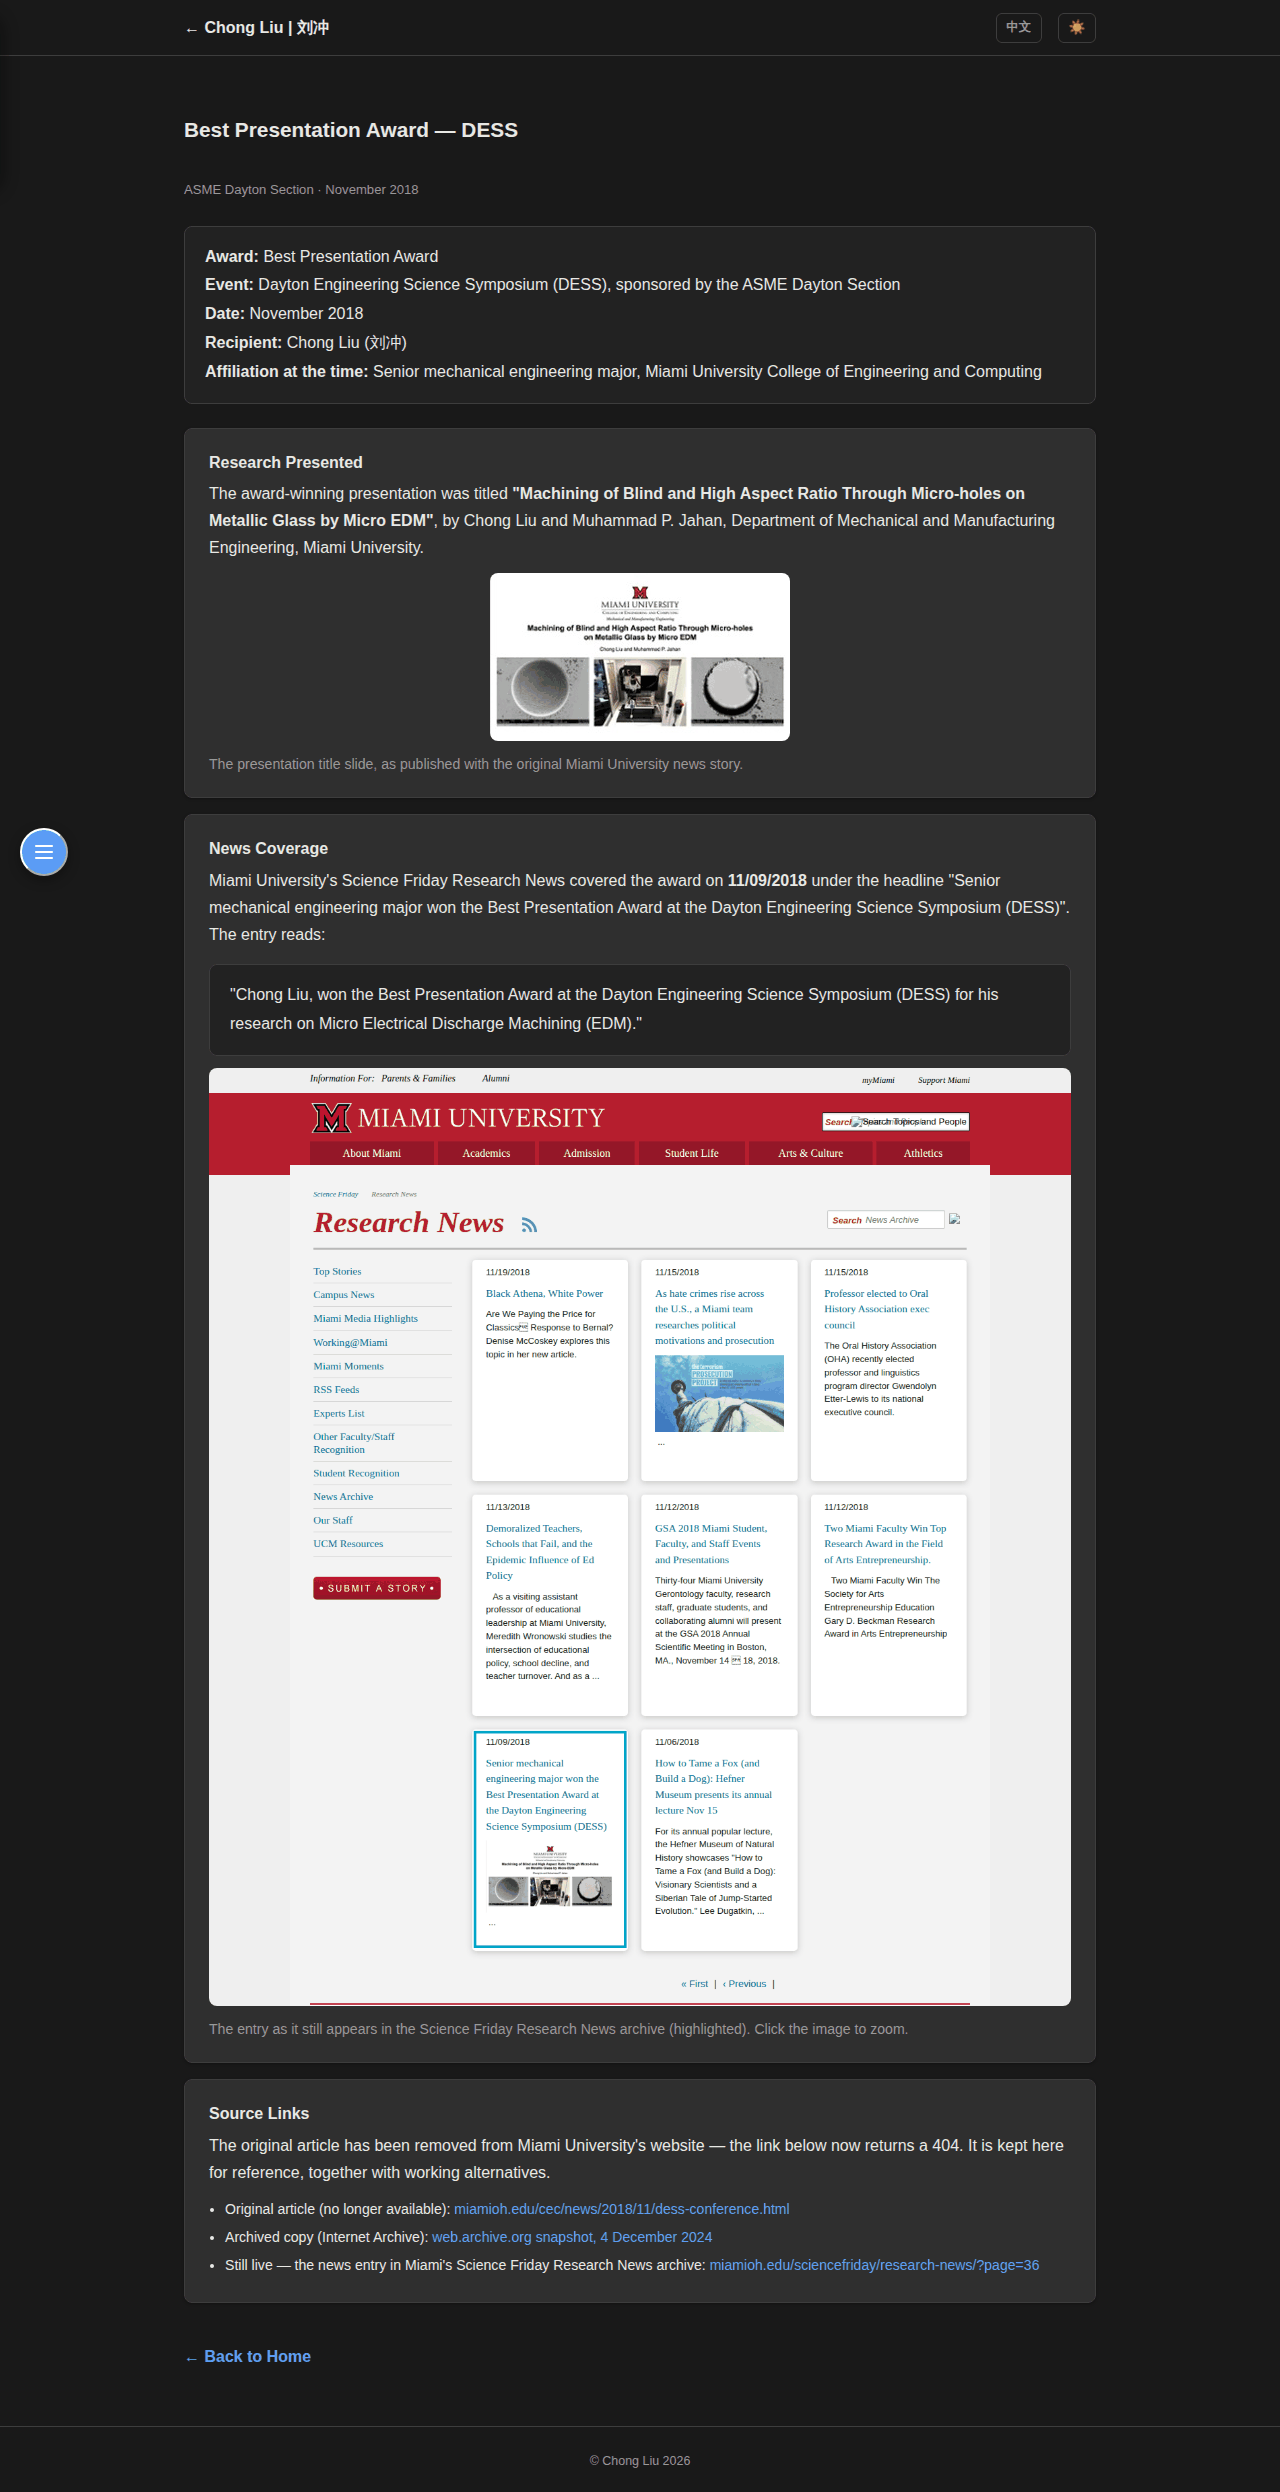
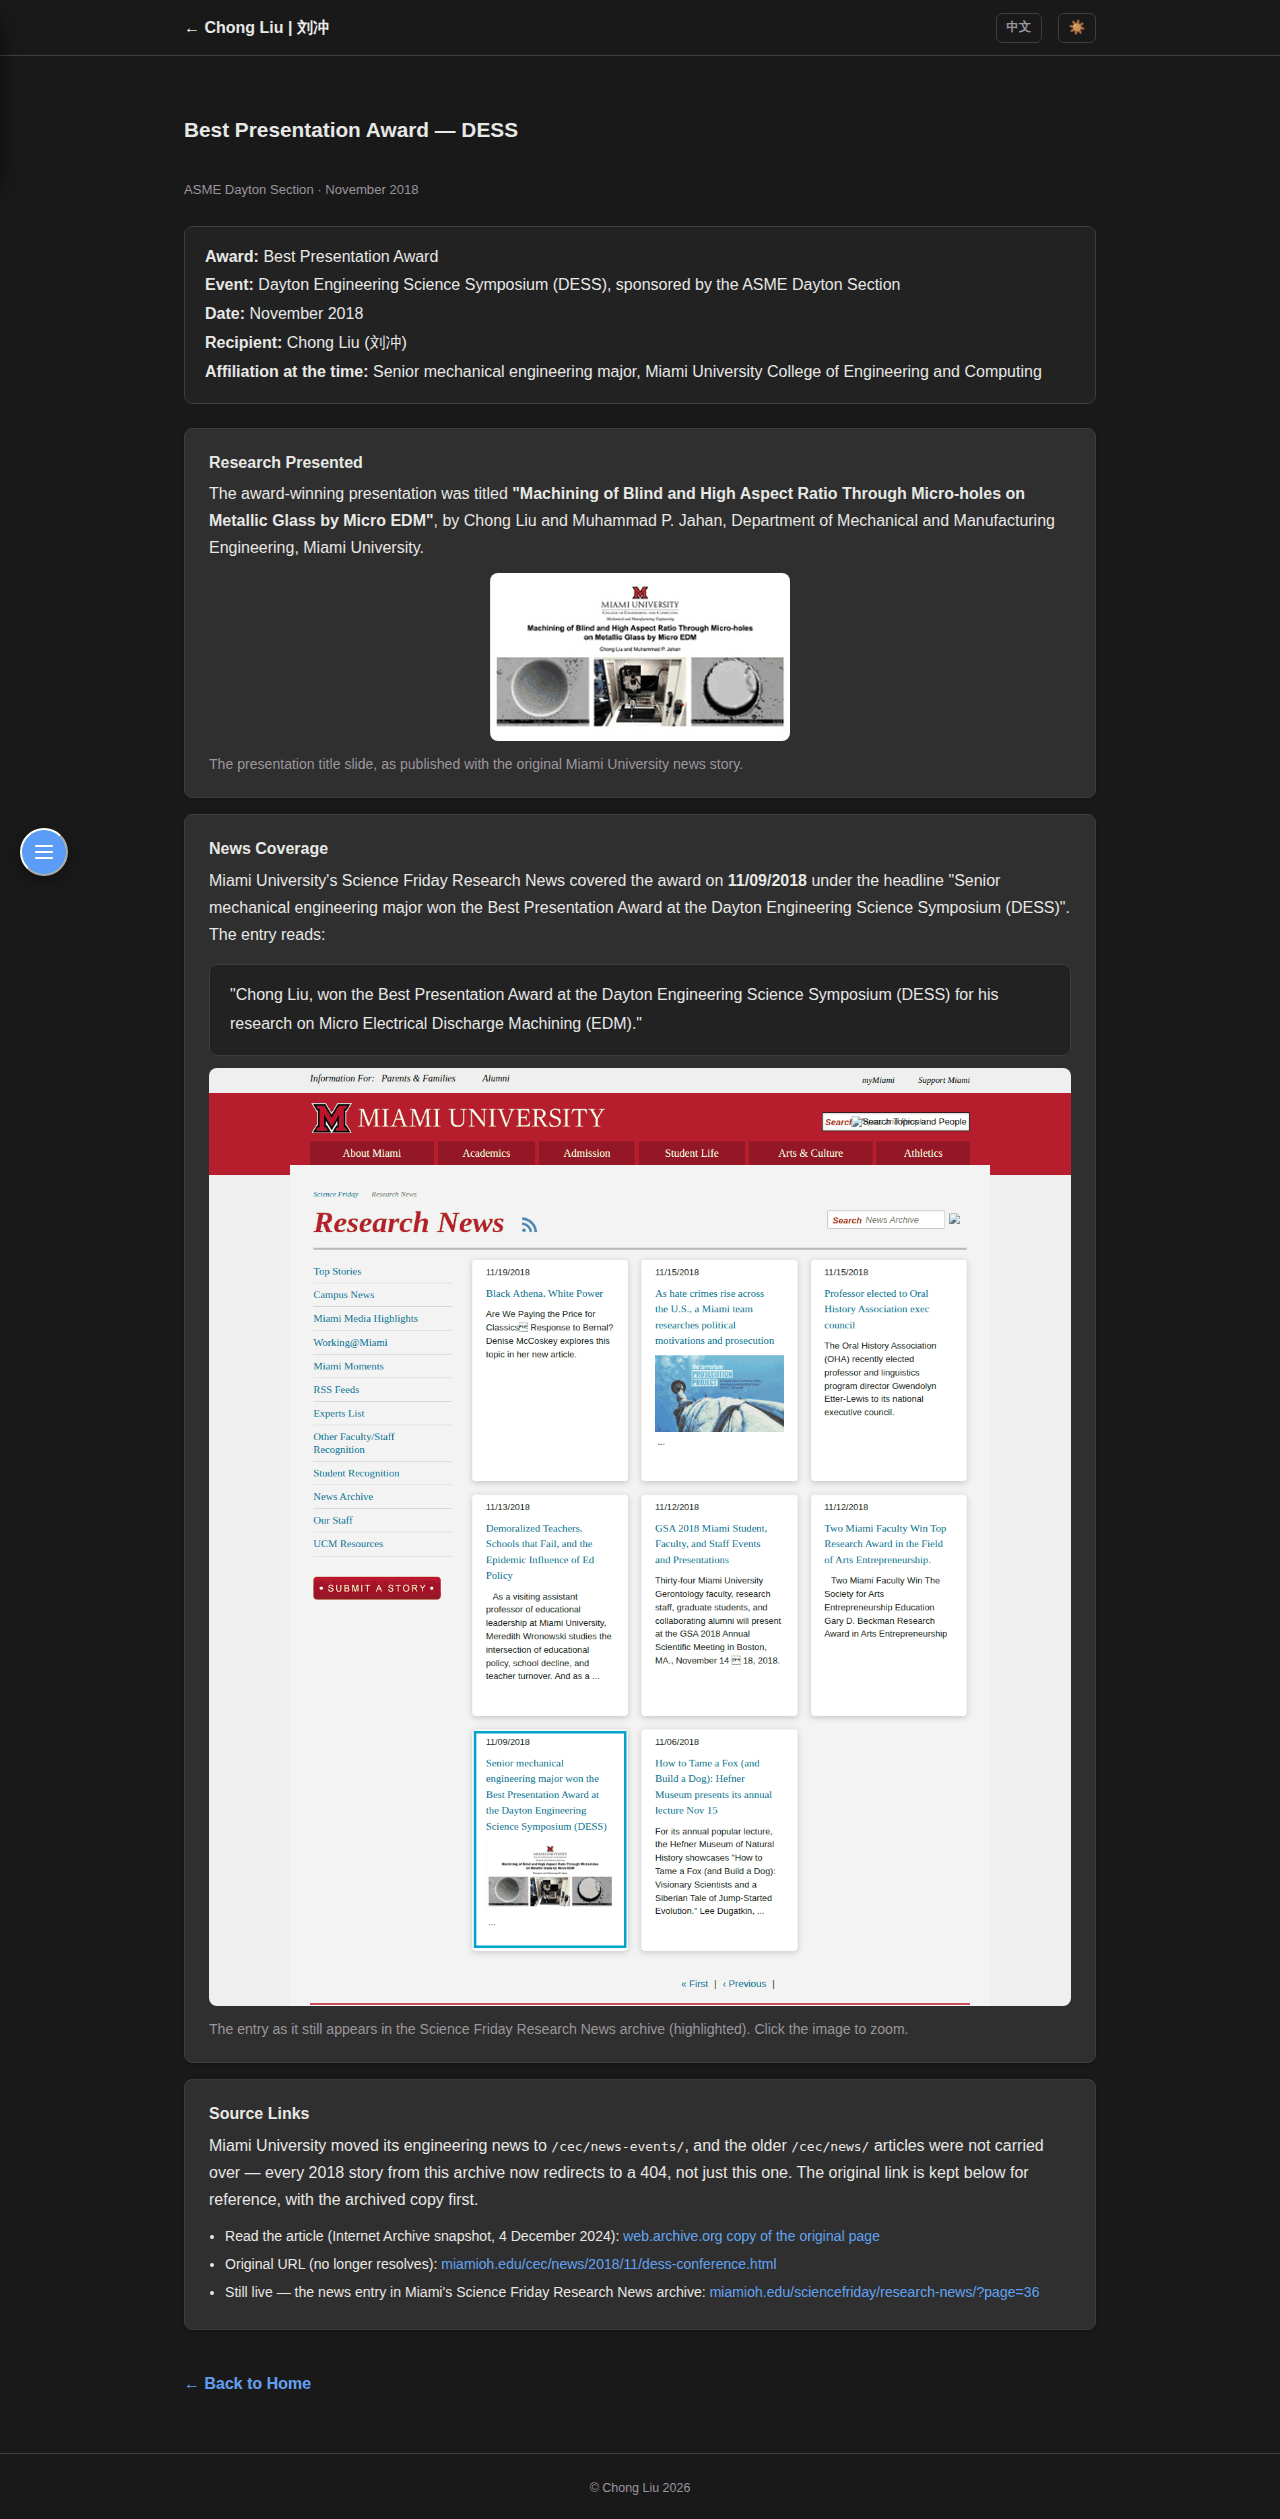
Lead the source links with the archived copy of each article
Verified that the dead links are not specific to these two stories: every
legacy /cec/news/ article tested (2018 and 2020 alike) now redirects to
/cec/news-events/ and 404s, so Miami retired that archive wholesale. Say
that on the pages rather than implying these articles were singled out.

The Internet Archive snapshot is the closest thing to the original article
that still resolves, so it now leads the list; the original URL stays
below it, labelled as no longer resolving.

Claude-Session: https://claude.ai/code/session_016zDyNcNEbtFRoCAWKME1nV

diff --git a/awards/undergraduate-research-feature.html b/awards/undergraduate-research-feature.html
@@ -153,27 +153,28 @@
                 <div class="card-body">
                   <h3 id="toc-en-edm-sources">Source Links</h3>
                   <p>
-                    The original article has been removed from Miami University's website — the link
-                    below now returns a 404. It is kept here for reference, together with working
-                    alternatives.
+                    Miami University moved its engineering news to <code>/cec/news-events/</code>,
+                    and the older <code>/cec/news/</code> articles were not carried over — every
+                    2018 story from this archive now redirects to a 404, not just this one. The
+                    original link is kept below for reference, with the archived copy first.
                   </p>
                   <ul class="card-bullets mt-sm">
                     <li>
-                      Original article (no longer available):
+                      Read the article (Internet Archive snapshot, 26 July 2024):
+                      <a
+                        href="https://web.archive.org/web/20240726201241/https://miamioh.edu/cec/news/2018/08/undergrad-chong-research.html"
+                        target="_blank"
+                        rel="noopener noreferrer"
+                        >web.archive.org copy of the original page</a
+                      >
+                    </li>
+                    <li>
+                      Original URL (no longer resolves):
                       <a
                         href="https://miamioh.edu/cec/news/2018/08/undergrad-chong-research.html"
                         target="_blank"
                         rel="noopener noreferrer"
                         >miamioh.edu/cec/news/2018/08/undergrad-chong-research.html</a
-                      >
-                    </li>
-                    <li>
-                      Archived copy (Internet Archive):
-                      <a
-                        href="https://web.archive.org/web/20240726201241/https://miamioh.edu/cec/news/2018/08/undergrad-chong-research.html"
-                        target="_blank"
-                        rel="noopener noreferrer"
-                        >web.archive.org snapshot, 26 July 2024</a
                       >
                     </li>
                     <li>
@@ -296,10 +297,20 @@
                 <div class="card-body">
                   <h3 id="toc-zh-edm-sources">原始链接</h3>
                   <p>
-                    原文已从迈阿密大学官网移除，下方原始链接现返回
-                    404。此处保留该链接以供查证，并附上仍可访问的替代来源。
+                    迈阿密大学已将工程学院新闻迁至 <code>/cec/news-events/</code>，旧的
+                    <code>/cec/news/</code> 文章未一并迁移 —— 该归档下所有 2018 年的报道现在都跳转到
+                    404，并非只有这一篇。下方保留原始链接以供查证，存档链接排在最前。
                   </p>
                   <ul class="card-bullets mt-sm">
+                    <li>
+                      阅读原文（互联网档案馆快照，2024年7月26日）：
+                      <a
+                        href="https://web.archive.org/web/20240726201241/https://miamioh.edu/cec/news/2018/08/undergrad-chong-research.html"
+                        target="_blank"
+                        rel="noopener noreferrer"
+                        >web.archive.org 保存的原始页面</a
+                      >
+                    </li>
                     <li>
                       原文链接（已失效）：
                       <a
@@ -307,15 +318,6 @@
                         target="_blank"
                         rel="noopener noreferrer"
                         >miamioh.edu/cec/news/2018/08/undergrad-chong-research.html</a
-                      >
-                    </li>
-                    <li>
-                      互联网档案馆存档：
-                      <a
-                        href="https://web.archive.org/web/20240726201241/https://miamioh.edu/cec/news/2018/08/undergrad-chong-research.html"
-                        target="_blank"
-                        rel="noopener noreferrer"
-                        >web.archive.org 快照，2024年7月26日</a
                       >
                     </li>
                     <li>

diff --git a/awards/dess-best-presentation.html b/awards/dess-best-presentation.html
@@ -145,27 +145,28 @@
                 <div class="card-body">
                   <h3 id="toc-en-dess-sources">Source Links</h3>
                   <p>
-                    The original article has been removed from Miami University's website — the link
-                    below now returns a 404. It is kept here for reference, together with working
-                    alternatives.
+                    Miami University moved its engineering news to <code>/cec/news-events/</code>,
+                    and the older <code>/cec/news/</code> articles were not carried over — every
+                    2018 story from this archive now redirects to a 404, not just this one. The
+                    original link is kept below for reference, with the archived copy first.
                   </p>
                   <ul class="card-bullets mt-sm">
                     <li>
-                      Original article (no longer available):
+                      Read the article (Internet Archive snapshot, 4 December 2024):
+                      <a
+                        href="https://web.archive.org/web/20241204153943/https://miamioh.edu/cec/news/2018/11/dess-conference.html"
+                        target="_blank"
+                        rel="noopener noreferrer"
+                        >web.archive.org copy of the original page</a
+                      >
+                    </li>
+                    <li>
+                      Original URL (no longer resolves):
                       <a
                         href="https://miamioh.edu/cec/news/2018/11/dess-conference.html"
                         target="_blank"
                         rel="noopener noreferrer"
                         >miamioh.edu/cec/news/2018/11/dess-conference.html</a
-                      >
-                    </li>
-                    <li>
-                      Archived copy (Internet Archive):
-                      <a
-                        href="https://web.archive.org/web/20241204153943/https://miamioh.edu/cec/news/2018/11/dess-conference.html"
-                        target="_blank"
-                        rel="noopener noreferrer"
-                        >web.archive.org snapshot, 4 December 2024</a
                       >
                     </li>
                     <li>
@@ -289,10 +290,20 @@
                 <div class="card-body">
                   <h3 id="toc-zh-dess-sources">原始链接</h3>
                   <p>
-                    原文已从迈阿密大学官网移除，下方原始链接现返回
-                    404。此处保留该链接以供查证，并附上仍可访问的替代来源。
+                    迈阿密大学已将工程学院新闻迁至 <code>/cec/news-events/</code>，旧的
+                    <code>/cec/news/</code> 文章未一并迁移 —— 该归档下所有 2018 年的报道现在都跳转到
+                    404，并非只有这一篇。下方保留原始链接以供查证，存档链接排在最前。
                   </p>
                   <ul class="card-bullets mt-sm">
+                    <li>
+                      阅读原文（互联网档案馆快照，2024年12月4日）：
+                      <a
+                        href="https://web.archive.org/web/20241204153943/https://miamioh.edu/cec/news/2018/11/dess-conference.html"
+                        target="_blank"
+                        rel="noopener noreferrer"
+                        >web.archive.org 保存的原始页面</a
+                      >
+                    </li>
                     <li>
                       原文链接（已失效）：
                       <a
@@ -300,15 +311,6 @@
                         target="_blank"
                         rel="noopener noreferrer"
                         >miamioh.edu/cec/news/2018/11/dess-conference.html</a
-                      >
-                    </li>
-                    <li>
-                      互联网档案馆存档：
-                      <a
-                        href="https://web.archive.org/web/20241204153943/https://miamioh.edu/cec/news/2018/11/dess-conference.html"
-                        target="_blank"
-                        rel="noopener noreferrer"
-                        >web.archive.org 快照，2024年12月4日</a
                       >
                     </li>
                     <li>
